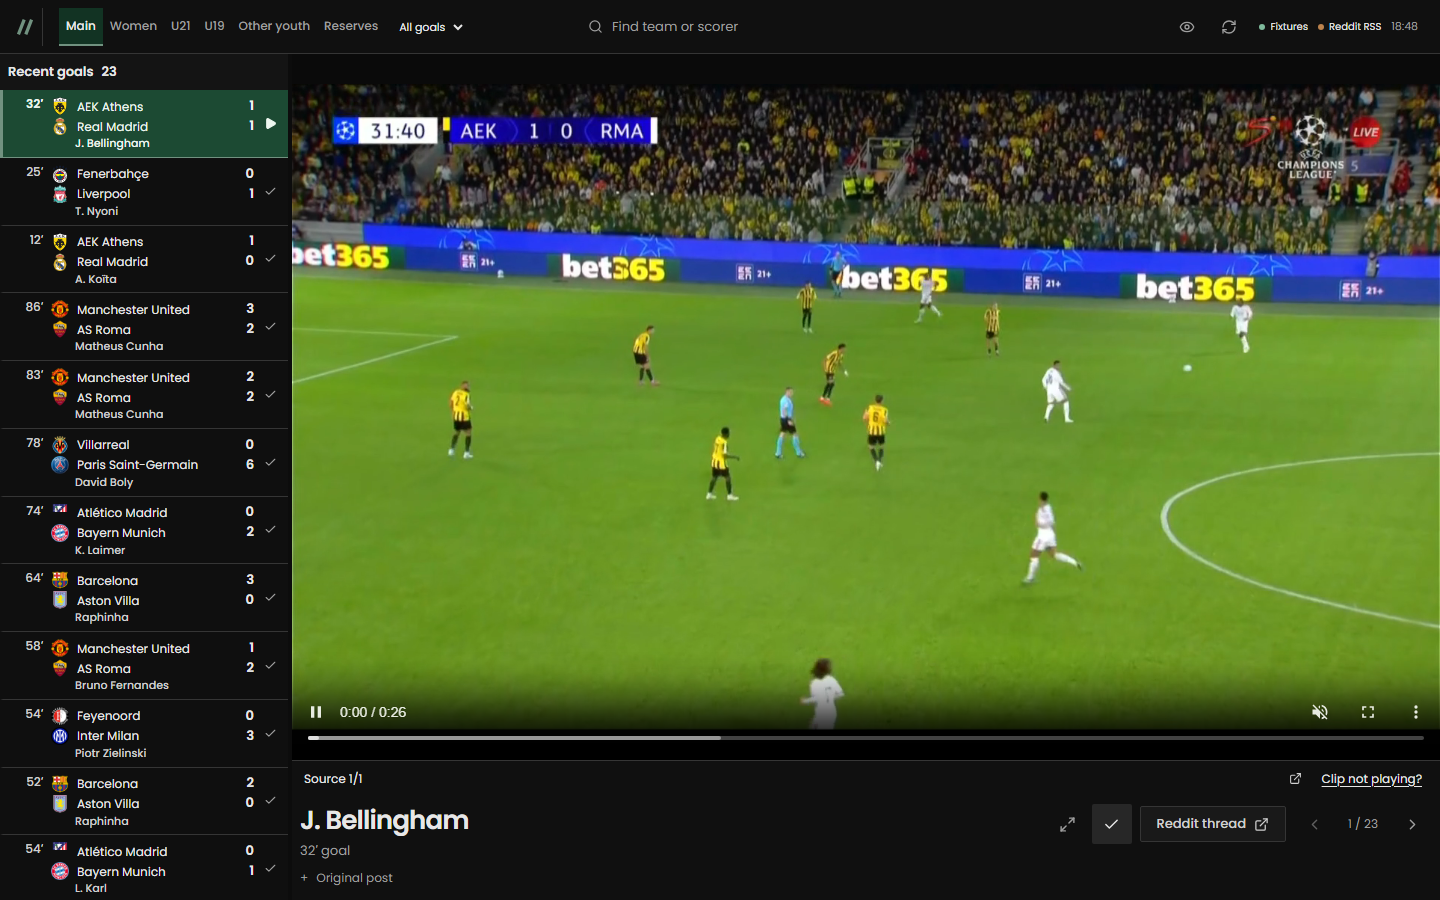
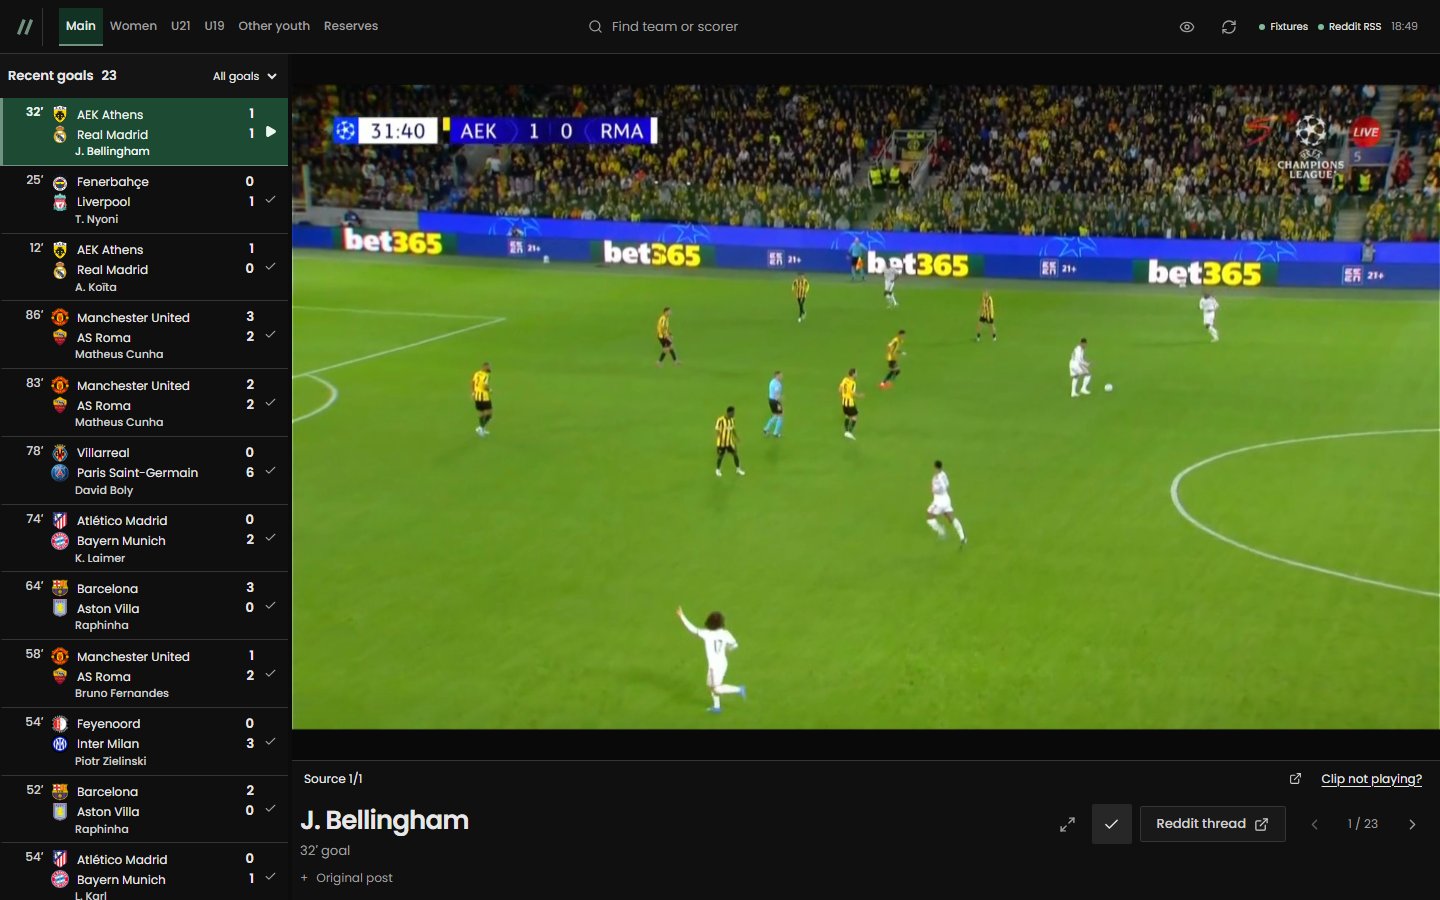
Move viewing history filter into the goal list header

diff --git a/web/src/App.tsx b/web/src/App.tsx
@@ -340,23 +340,6 @@ export default function App() {
                 <span>{data ? counts.get(id) || 0 : "—"}</span>
               </button>
             ))}
-            <label className="seen-filter">
-              <span className="sr-only">Viewing history</span>
-              <select
-                aria-label="Viewing history"
-                value={visibility}
-                onChange={(event) => {
-                  setVisibility(
-                    event.target.value as "all" | "unseen" | "seen",
-                  );
-                  setNewCount(0);
-                }}
-              >
-                <option value="all">All goals</option>
-                <option value="unseen">Unseen</option>
-                <option value="seen">Seen</option>
-              </select>
-            </label>
           </nav>
         </div>
         <label className="goal-search">
@@ -570,6 +553,23 @@ export default function App() {
                 <h2>
                   Recent goals <span>{goals.length}</span>
                 </h2>
+                <label className="seen-filter">
+                  <span className="sr-only">Viewing history</span>
+                  <select
+                    aria-label="Viewing history"
+                    value={visibility}
+                    onChange={(event) => {
+                      setVisibility(
+                        event.target.value as "all" | "unseen" | "seen",
+                      );
+                      setNewCount(0);
+                    }}
+                  >
+                    <option value="all">All goals</option>
+                    <option value="unseen">Unseen</option>
+                    <option value="seen">Seen</option>
+                  </select>
+                </label>
               </div>
               {newCount > 0 && (
                 <button

diff --git a/web/src/style.css b/web/src/style.css
@@ -2637,10 +2637,6 @@ summary:focus-visible {
     flex: 1 0 auto;
     min-height: 40px;
   }
-  .goal-hub-header .seen-filter {
-    flex-shrink: 0;
-    margin-left: auto;
-  }
   .goal-hub-header .connection-status summary {
     min-width: 28px;
     padding: 0;
@@ -2668,4 +2664,9 @@ summary:focus-visible {
     min-width: 28px;
     width: 28px;
   }
+}
+
+.goal-queue .seen-filter {
+  margin-left: auto;
+  flex-shrink: 0;
 }

diff --git a/docs/design.md b/docs/design.md
@@ -1,6 +1,6 @@
 # Touchline goals-only hub
 
-The application is a single full-width goal feed and player. Every goal returned by the provider is available without a favourite-team catalogue, match selection or setup screens. Main defaults to senior games; Women, U21, U19, Other youth and Reserves split the remaining clips by team names, post titles and fixture competition metadata. When posts omit classification metadata, they remain in Main. Old view, team, match and feed query parameters are ignored and removed from the canonical URL. Category tabs and the All goals / Unseen / Seen dropdown sit at the left of a balanced header. Search is centred and blends into the bar; spoilers use a labelled icon button. Refresh and connection states sit at the far right. Top-right source indicators open individual connection states, last successful fetch times and refresh details; public Reddit RSS is labelled separately from the OAuth API.
+The application is a single full-width goal feed and player. Every goal returned by the provider is available without a favourite-team catalogue, match selection or setup screens. Main defaults to senior games; Women, U21, U19, Other youth and Reserves split the remaining clips by team names, post titles and fixture competition metadata. When posts omit classification metadata, they remain in Main. Old view, team, match and feed query parameters are ignored and removed from the canonical URL. Category tabs sit at the left of a balanced header. The All goals / Unseen / Seen dropdown belongs to the left goal-list header. Search is centred and blends into the bar; spoilers use a labelled icon button. Refresh and connection states sit at the far right. Top-right source indicators open individual connection states, last successful fetch times and refresh details; public Reddit RSS is labelled separately from the OAuth API.
 
 Poppins is locally hosted. Neutral surfaces distinguish unseen and seen goals. Muted burnt orange identifies unwatched rows, deep green identifies the active clip, and subtle rules separate compact records. Minute, team names, scores and scorer use aligned columns. Crest aliases bridge provider naming differences, and youth/women’s teams inherit the available parent-club image without changing their identities. Search accepts aliases and accents while protecting hidden scorer details.
 
